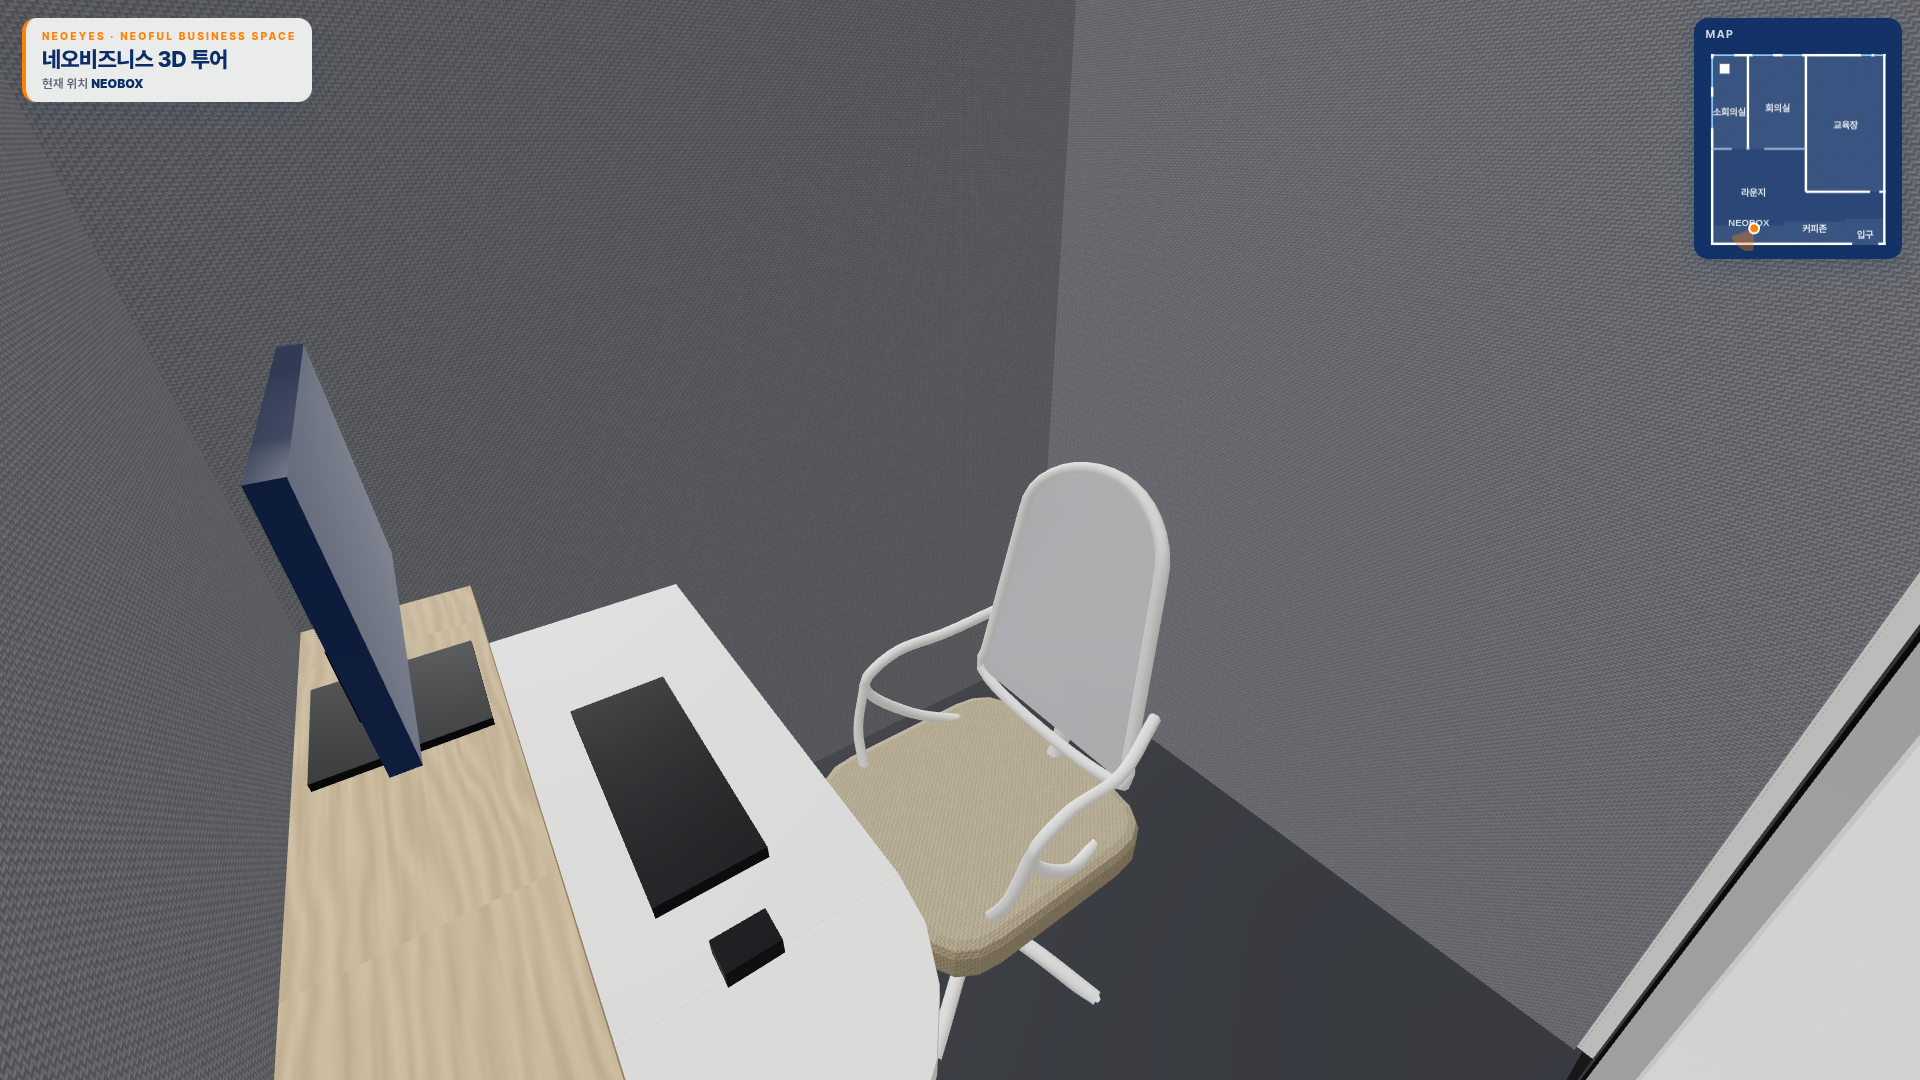
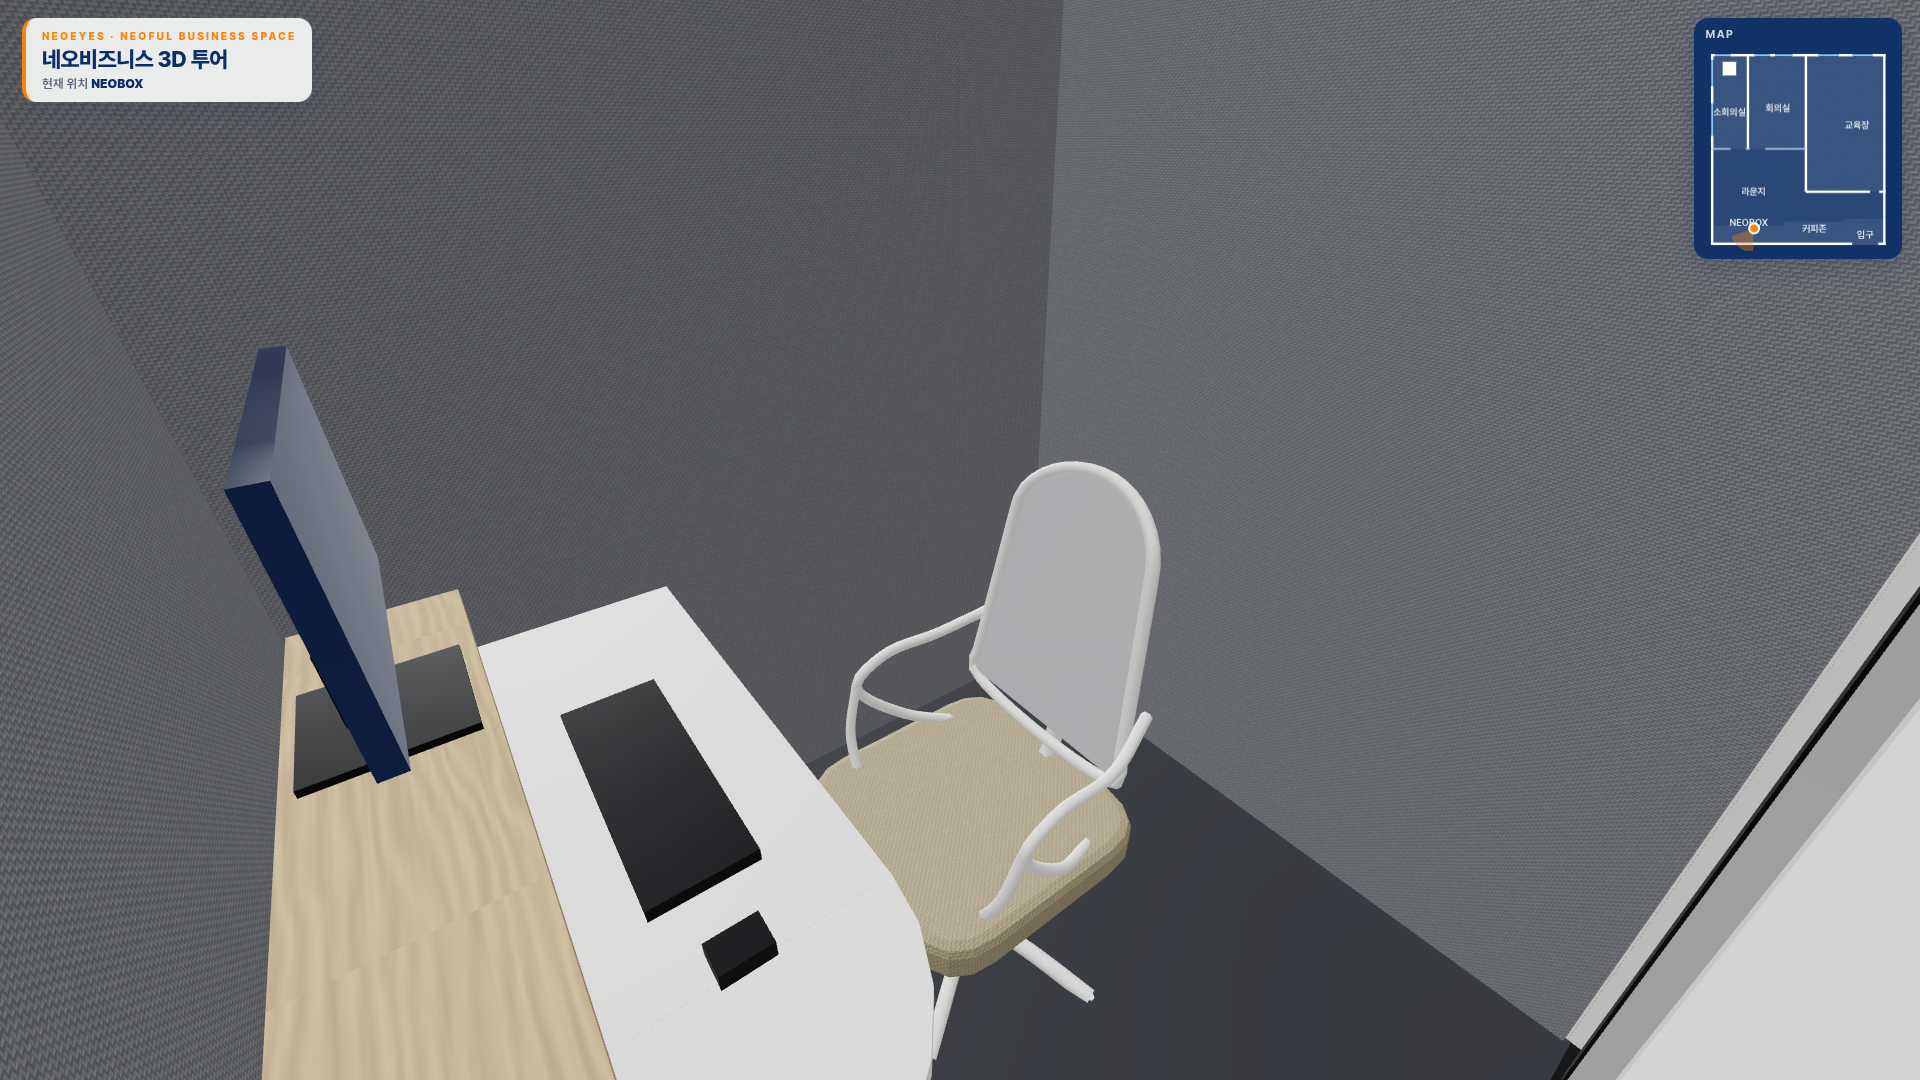
실측 스케치 반영: 단상, 교육장 책상 5줄, 회의실/소회의실 책상·창문·문 위치

diff --git a/layout.js b/layout.js
@@ -37,13 +37,13 @@ window.LAYOUT = {
       card:{ photos:['IMG_0415','IMG_0418','IMG_0419','IMG_0416'],
              desc:'창가 쪽 코너에 있는 작은 회의실이에요. 블랙 미팅 테이블과 화이트보드가 있고, 기둥 뒤 창가에는 L자 바 테이블과 바 스툴, 회색 수납 벤치와 주황 큐브 스툴이 있어요.' } },
     { id:'meeting', name:'회의실', en:'Meeting Room', rect:[3.81, 0, 9.79, 9.74], floor:'floor',
-      label:[6.9, 5.6], jump:{ x:6.9, z:8.8, look:[6.9, 0.3] },
+      label:[6.9, 5.6], jump:{ x:6.7, z:8.8, look:[6.7, 0.3] },
       card:{ photos:['IMG_0393','IMG_0391','IMG_0390'],
              desc:'긴 화이트 테이블과 블랙 체어, 프로젝터 스크린과 화이트보드를 갖춘 회의실이에요. 라운지 쪽은 반투명 유리벽이에요.' } },
     { id:'classroom', name:'교육장', en:'Education Center', rect:[9.79, 0, 18, 14.14], floor:'floor',
-      label:[13.9, 7.3], jump:{ x:13.91, z:13.3, look:[13.91, 0.3] },
+      label:[15.07, 7.3], jump:{ x:15.07, z:13.3, look:[13.91, 0.5] },
       card:{ photos:['IMG_0380','IMG_0382','IMG_0384','IMG_0383'],
-             desc:'라운지 쪽 출입구에는 백라이트 패널과 TV, 안내 배너, EDUCATION CENTER 유리문이 있어요. 내부는 화이트 강의용 책상이 두 줄로 길게 놓인 대형 교육장이에요.' } },
+             desc:'라운지 쪽 출입구에는 백라이트 패널과 TV, 안내 배너, EDUCATION CENTER 유리문이 있어요. 내부는 앞쪽 창가에 단상이 있고, 화이트 강의용 책상이 5줄로 놓인 대형 교육장이에요.' } },
     { id:'focus', name:'NEOBOX', en:'Focus Booth · NEOBOX', small:true, rect:[0.24, 17.6, 7.52, 19.6], floor:'floor',
       label:[3.9, 17.3], labelY:2.35, jump:{ x:5.1, z:16.0, look:[3.4, 19.3] },
       card:{ photos:['IMG_0398','IMG_0397','IMG_0401','IMG_0403'],
@@ -78,24 +78,24 @@ window.LAYOUT = {
                   swing = 열렸을 때 각도(도). NEOBOX 부스 문도 booth 가구에 open:true / swing 을 넣을 수 있어요.          */
   walls: [
     // 바깥벽 — 북쪽(위)
-    // (2026-11-18 스케치 반영: 초록색 = 창문)
-    { from:[0, 0],     to:[0.3, 0],   type:'solid',  outer:true },
-    { from:[0.3, 0],   to:[2.4, 0],   type:'window', outer:true },   // 소회의실 창 (왼쪽 한 구간)
-    { from:[2.4, 0],   to:[4.3, 0],   type:'solid',  outer:true },
-    { from:[4.3, 0],   to:[6.4, 0],   type:'window', outer:true },   // 회의실 창 ①
-    { from:[6.4, 0],   to:[7.4, 0],   type:'solid',  outer:true },
-    { from:[7.4, 0],   to:[9.4, 0],   type:'window', outer:true },   // 회의실 창 ②
-    { from:[9.4, 0],   to:[15.5, 0],  type:'solid',  outer:true },
-    { from:[15.5, 0],  to:[16.55, 0], type:'window', outer:true },   // 교육장 창 ① (오른쪽 절반, 스크린과 겹치지 않게)
-    { from:[16.55, 0], to:[16.85, 0], type:'solid',  outer:true },
-    { from:[16.85, 0], to:[17.8, 0],  type:'window', outer:true },   // 교육장 창 ②
-    { from:[17.8, 0],  to:[18, 0],    type:'solid',  outer:true },
+    // (2026-11-18 사용자 실측 스케치 반영: 초록색 = 창문)
+    { from:[0, 0],     to:[0.4, 0],   type:'solid',  outer:true },
+    { from:[0.4, 0],   to:[2.0, 0],   type:'window', outer:true },   // 소회의실 창
+    { from:[2.0, 0],   to:[4.5, 0],   type:'solid',  outer:true },
+    { from:[4.5, 0],   to:[6.1, 0],   type:'window', outer:true },   // 회의실 창 ①
+    { from:[6.1, 0],   to:[6.6, 0],   type:'solid',  outer:true },
+    { from:[6.6, 0],   to:[8.4, 0],   type:'window', outer:true },   // 회의실 창 ②
+    { from:[8.4, 0],   to:[11.1, 0],  type:'solid',  outer:true },
+    { from:[11.1, 0],  to:[13.2, 0],  type:'window', outer:true },   // 교육장 창 ①
+    { from:[13.2, 0],  to:[14.6, 0],  type:'solid',  outer:true },
+    { from:[14.6, 0],  to:[16.7, 0],  type:'window', outer:true },   // 교육장 창 ②
+    { from:[16.7, 0],  to:[18, 0],    type:'solid',  outer:true },
     // 바깥벽 — 서쪽(왼쪽)
-    { from:[0, 0],     to:[0, 0.48],  type:'solid',  outer:true },
-    { from:[0, 0.48],  to:[0, 3.4],   type:'window', outer:true },   // 소회의실 창 ① (위)
-    { from:[0, 3.4],   to:[0, 4.4],   type:'solid',  outer:true },
-    { from:[0, 4.4],   to:[0, 7.6],   type:'window', outer:true },   // 소회의실 창 ② (가운데)
-    { from:[0, 7.6],   to:[0, 9.21],  type:'solid',  outer:true },
+    { from:[0, 0],     to:[0, 0.6],   type:'solid',  outer:true },
+    { from:[0, 0.6],   to:[0, 3.3],   type:'window', outer:true },   // 소회의실 창 ① (위)
+    { from:[0, 3.3],   to:[0, 5.1],   type:'solid',  outer:true },
+    { from:[0, 5.1],   to:[0, 8.4],   type:'window', outer:true },   // 소회의실 창 ② (가운데)
+    { from:[0, 8.4],   to:[0, 9.21],  type:'solid',  outer:true },
     { from:[0, 9.21],  to:[0, 19.6],  type:'solid',  outer:true, molding:'east', moldingFrom:9.9, moldingTo:17.3 },  // 라운지 몰딩 벽 (molding: 몰딩을 붙일 면, From~To 구간)
     // 바깥벽 — 남쪽(아래), 입구 유리 양문
     { from:[0, 19.6],  to:[18, 19.6], type:'solid',  outer:true,
@@ -107,16 +107,16 @@ window.LAYOUT = {
     { from:[3.81, 0],  to:[3.81, 9.74], type:'solid' },                       // 소회의실 | 회의실
     { from:[9.79, 0],  to:[9.79, 14.14], type:'solid', t:0.30, molding:'west', moldingFrom:9.86, moldingTo:14.14 },  // 회의실·라운지 | 교육장
     { from:[0, 9.74],  to:[3.81, 9.74], type:'glass',
-      openings:[ { at:2.12, width:1.55, door:'glass', hinge:'end', swing:-63 } ] },    // 소회의실 앞 유리벽 + 문(동쪽 끝)
+      openings:[ { at:2.0, width:1.6, door:'glass', hinge:'end', swing:-63 } ] },    // 소회의실 앞 유리벽 + 문(동쪽 끝)
     { from:[3.81, 9.74], to:[9.79, 9.74], type:'glass',
-      openings:[ { at:3.95, width:1.55, door:'glass', hinge:'start', swing:63 } ] },   // 회의실 앞 유리벽 + 문(서쪽 끝, 소회의실 문 바로 옆)
+      openings:[ { at:4.0, width:1.6, door:'glass', hinge:'start', swing:63 } ] },   // 회의실 앞 유리벽 + 문(서쪽 끝, 소회의실 문 바로 옆)
     { from:[9.79, 14.14], to:[18, 14.14], type:'solid', t:0.30,
       openings:[ { at:16.41, width:0.95, door:'glass', frame:'white', hinge:'start', swing:66 } ] }  // 교육장 출입문
   ],
 
   /* 벽 블록(소회의실 안 흰 정사각형) 같은 기둥: rect = [x1,z1,x2,z2], slats = 우드 슬랫을 붙일 면 */
   columns: [
-    { rect:[0.90, 1.01, 1.91, 2.01], slats:['west','north'] }
+    { rect:[1.2, 0.8, 2.6, 2.2], slats:['west','north'] }   // 소회의실 흰 벽 블록 (실측 스케치)
   ],
 
   /* ---------- 4. 천장 조명 ----------
@@ -143,36 +143,39 @@ window.LAYOUT = {
      종류 목록은 수정방법.md 참고                                                     */
   furniture: [
     /* --- 소회의실 --- */
-    { type:'tableSet', x:1.35, z:3.25, w:0.9, d:2.5, top:'darkTop', chairsLeft:3, chairsRight:3, chairInset:0.4, legInset:0.1 },   // 블랙 미팅 테이블(스케치: 서쪽 위쪽, 벽 블록 바로 아래) + 의자 3+3
+    { type:'tableSet', x:1.9, z:4.0, w:1.4, d:3.2, top:'darkTop', chairsLeft:4, chairsRight:4, chairInset:0.45, legInset:0.1 },   // 블랙 미팅 테이블 x1.2–2.6, z2.4–5.6 (실측 스케치) + 의자 4+4
     { type:'whiteboard', x:3.71, z:7.09, w:2.0, rot:90 },
     { type:'barCounter', x:0.33, z:1.06, w:0.42, d:1.88 },          // 창가 L자 바 테이블 — 서쪽 창 쪽 (미팅 테이블과 겹치지 않게 벽 블록 옆까지만)
-    { type:'barCounter', x:1.80, z:0.33, w:2.51, d:0.42 },          // 창가 L자 바 테이블 — 북쪽 창 쪽
+    { type:'barCounter', x:1.97, z:0.33, w:2.86, d:0.42 },          // 창가 L자 바 테이블 — 북쪽 창 쪽
     { type:'stool', x:0.72, z:0.8, color:'fabricGray',  h:0.68 },
     { type:'stool', x:0.72, z:1.55, color:'fabricOrange', h:0.68 },
-    { type:'stool', x:2.25, z:0.86, color:'fabricGray',  h:0.68 },
-    { type:'stool', x:2.80, z:0.86, color:'fabricGray',  h:0.68 },
-    { type:'bench', x:3.52, z:1.24, w:0.4, d:1.0, h:0.42, color:'fabricGray' },
-    { type:'cube',  x:3.51, z:2.04, size:0.42, color:'fabricOrange' },
-    { type:'plant', x:3.45, z:2.8, scale:1.0 },
+    { type:'stool', x:2.85, z:0.86, color:'fabricGray',  h:0.68 },
+    { type:'stool', x:3.27, z:0.86, color:'fabricGray',  h:0.68 },
+    { type:'bench', x:3.52, z:1.95, w:0.4, d:1.0, h:0.42, color:'fabricGray' },
+    { type:'cube',  x:3.51, z:2.75, size:0.42, color:'fabricOrange' },
+    { type:'plant', x:0.45, z:6.3, scale:1.0 },
     { type:'cabinet', x:0.32, z:8.94, w:0.35, d:1.2, h:0.6, color:'black' },
     { type:'block', x:0.32, z:1.4, w:0.08, d:0.06, h:0.14, y:1.02, color:'black' },   // 바 테이블 위 폰 거치대
 
     /* --- 회의실 --- */
-    { type:'tableSet', x:6.9, z:2.3, w:1.25, d:2.6, top:'white', chairsLeft:3, chairsRight:3 },   // 회의 테이블 ① (스케치: 가운데 위)
-    { type:'tableSet', x:6.9, z:5.3, w:1.25, d:2.6, top:'white', chairsLeft:3, chairsRight:3 },   // 회의 테이블 ② (가운데 아래)
-    { type:'screen', x:6.9, z:0.18, w:2.2, rot:180 },
+    { type:'tableSet', x:6.7, z:2.5, w:1.4, d:3.0, top:'white', chairsLeft:3, chairsRight:3 },   // 회의 테이블 ① x6.0–7.4, z1.0–4.0
+    { type:'tableSet', x:6.7, z:5.8, w:1.4, d:3.0, top:'white', chairsLeft:3, chairsRight:3 },   // 회의 테이블 ② x6.0–7.4, z4.3–7.3
+    { type:'screen', x:6.7, z:0.18, w:2.2, rot:180 },
     { type:'whiteboard', x:3.91, z:4.79, w:2.4, rot:-90 },
     { type:'cabinet', x:8.4, z:0.47, w:1.6, d:0.4, h:0.6, color:'white' },
 
     /* --- 교육장 --- */
+    { type:'stage', x:13.915, z:0.95, w:7.93, d:1.5, h:0.2, top:'oak', stepX:1.0 },   // 단상 x9.95–17.88, z0.2–1.7, 높이 0.2 (실측 스케치 빨간색)
     { type:'screen', x:13.91, z:0.18, w:3.0, rot:180 },
-    { type:'desk', x:12.31, z:1.72, w:1.4, d:0.6 },
-    { type:'chair', x:12.31, z:1.22, rot:180 },
-    { type:'tvStand', x:10.84, z:1.42, rot:29 },
+    { type:'desk', x:12.31, z:1.0, w:1.4, d:0.6, elev:0.2 },          // 강연대(단상 위, elev = 단상 높이)
+    { type:'chair', x:12.31, z:0.5, rot:180, elev:0.2 },
+    { type:'tvStand', x:10.84, z:1.0, rot:29, elev:0.2 },
     { type:'whiteboard', x:9.97, z:7.07, w:8.5, rot:-90 },
     { type:'whiteboard', x:17.85, z:7.07, w:8.5, rot:90 },
-    { type:'array', xs:[10.95, 12.47, 15.35, 16.87], zs:[3.12, 4.57, 6.02, 7.47, 8.92, 10.37, 11.82],
-      item:{ type:'deskPair', w:1.5, d:0.5 } },                    // 강의 책상(의자 2개 포함) 7줄 × 4개
+    // 수강 책상 5줄 (실측 스케치): 왼쪽 2개 붙은 책상 | 통로 x14.3–15.85 | 동쪽 벽 쪽 1개. 의자는 책상 뒤에서 단상(북쪽)을 바라봄
+    { type:'array', xs:[11.025], zs:[4.35, 6.35, 8.1, 9.9, 11.8], item:{ type:'deskPair', w:2.15, d:0.75, chairs:3 } },   // x9.95–12.1
+    { type:'array', xs:[13.25],  zs:[4.35, 6.35, 8.1, 9.9, 11.8], item:{ type:'deskPair', w:2.1,  d:0.75, chairs:3 } },   // x12.2–14.3
+    { type:'array', xs:[16.865], zs:[4.35, 6.35, 8.1, 9.9, 11.8], item:{ type:'deskPair', w:2.03, d:0.75, chairs:3 } },   // x15.85–17.88(동쪽 벽)
     { type:'tvWall', x:14.82, z:14.34, w:2.5, rot:180 },                     // 교육장 앞 백라이트 TV 패널(라운지 쪽)
     { type:'signStand', x:15.17, z:14.84 },
     { type:'signStand', x:15.57, z:14.84 },

diff --git a/app.js b/app.js
@@ -5,7 +5,7 @@ import { OrbitControls } from 'three/addons/OrbitControls.js';
 import { CSS2DRenderer, CSS2DObject } from 'three/addons/CSS2DRenderer.js';
 import { RoomEnvironment } from 'three/addons/RoomEnvironment.js';
 import { mergeGeometries } from 'three/addons/BufferGeometryUtils.js';
-import { makeTextures, textTexture } from './textures.js?v=11181930';
+import { makeTextures, textTexture } from './textures.js?v=11181960';
 
 const L = window.LAYOUT, B = L.building, H = B.ceiling, EYE = B.eye || 1.6, W = B.width, D = B.depth;
 const TW = Object.assign({ exterior: 0.24, interior: 0.14, thick: 0.3 }, B.wall || {});
@@ -301,10 +301,24 @@ function desk(g, o) {
   const w = o.w || 1.4, d = o.d || 0.6, h = o.h || 0.72;
   box(w, 0.035, d, matOf(o.top || 'white'), 0, h - 0.035, 0, g); legs4(g, w, d, h - 0.035, matOf(o.legs || 'metal'));
 }
-function deskPair(g, o) {
-  const w = o.w || 1.5, d = o.d || 0.5; desk(g, { w, d });
-  for (const dx of [-w * 0.24, w * 0.24]) chair(grp(dx, d / 2 + 0.3, 0, g), {});
+function deskPair(g, o) {   // 책상 + 뒤쪽 의자 n개(기본 2), 의자는 책상(북쪽, -z)을 바라봄
+  const w = o.w || 1.5, d = o.d || 0.5, n = o.chairs || 2; desk(g, { w, d });
+  for (let i = 0; i < n; i++) chair(grp(n === 2 ? (i ? 1 : -1) * w * 0.24 : -w / 2 + w / (2 * n) + i * w / n, d / 2 + 0.3, 0, g), {});
 }
+/* 단상(무대): 걸어 올라갈 수 있는 낮은 플랫폼. 위에 놓는 가구는 elev(바닥에서 띄우는 높이)를 단상 높이로 */
+const PLATFORMS = [];
+function stage(g, o) {
+  const w = o.w || 4, d = o.d || 1.5, h = o.h || 0.2;
+  box(w, h - 0.02, d, M.black, 0, 0, 0, g);                                 // 몸체(검정 측면)
+  box(w, 0.02, d, matOf(o.top || 'oak'), 0, h - 0.02, 0, g);               // 상판
+  box(w, 0.012, 0.05, M.metal, 0, h - 0.012, d / 2 - 0.025, g);           // 앞 모서리 논슬립 금속 엣지
+  if (o.step !== false) { box(Math.min(1.2, w * 0.3), h / 2, 0.3, matOf(o.top || 'oak'), o.stepX || 0, 0, d / 2 + 0.15, g); }   // 앞쪽 계단 한 칸
+  g.userData.noCollide = true; g.userData.noBlob = true;
+  const r = o.rot || 0; if (r % 180 !== 0) console.warn('stage 는 rot 0/180 만 지원');
+  PLATFORMS.push({ x0: o.x - w / 2, x1: o.x + w / 2, z0: o.z - d / 2, z1: o.z + d / 2, h });
+  if (o.step !== false) { const sx = o.x + (o.stepX || 0), sw = Math.min(1.2, w * 0.3); PLATFORMS.push({ x0: sx - sw / 2, x1: sx + sw / 2, z0: o.z + d / 2, z1: o.z + d / 2 + 0.3, h: h / 2 }); }
+}
+function floorHeight(x, z) { let h = 0; for (const p of PLATFORMS) if (x >= p.x0 - 0.05 && x <= p.x1 + 0.05 && z >= p.z0 - 0.05 && z <= p.z1 + 0.05) h = Math.max(h, p.h); return h; }
 function tableSet(g, o) {   // 테이블(세로 d 방향으로 길게) + 양옆 의자
   const w = o.w, d = o.d, h = 0.72, mods = o.modules || 1, legs = matOf(o.legs || (o.top === 'darkTop' ? 'metal' : 'black'));
   for (let i = 0; i < mods; i++) {
@@ -394,8 +408,8 @@ function slats(o) {   // from → to 선을 따라 세로 우드 루버
   if (o.thick) box(horiz ? Math.abs(bx - ax) + 0.1 : 0.08, 0.04, horiz ? 0.08 : Math.abs(bz - az) + 0.1, M.oak, (ax + bx) / 2, h, (az + bz) / 2, g);
   g.userData.noBlob = true; return g;
 }
-const BUILDERS = { block, chair, stool, armchair, cube, roundTable, plant, desk, deskPair, tableSet, whiteboard, screen, tvStand, tvWall, signStand, bench, cabinet, barCounter, purifier, mat, booth, pantry };
-const NOBLOB = new Set(['whiteboard', 'screen', 'tvWall', 'mat', 'slats', 'booth']);
+const BUILDERS = { stage, block, chair, stool, armchair, cube, roundTable, plant, desk, deskPair, tableSet, whiteboard, screen, tvStand, tvWall, signStand, bench, cabinet, barCounter, purifier, mat, booth, pantry };
+const NOBLOB = new Set(['stage', 'whiteboard', 'screen', 'tvWall', 'mat', 'slats', 'booth']);
 const blobs = [];
 function place(o) {
   if (o.type === 'array') {
@@ -405,7 +419,7 @@ function place(o) {
   }
   if (o.type === 'slats') { slats(o); return; }
   const fn = BUILDERS[o.type]; if (!fn) { console.warn('알 수 없는 가구 type:', o.type, o); return; }
-  const g = grp(o.x, o.z, o.rot || 0); fn(g, o);
+  const g = grp(o.x, o.z, o.rot || 0); if (o.elev) g.position.y = o.elev; fn(g, o);
   if (!NOBLOB.has(o.type) && !g.userData.noBlob) blobs.push(g);
 }
 for (const f of L.furniture) place(f);
@@ -800,7 +814,8 @@ function step(dt) {
     if (stuck || !blocked(player.x + dx, player.z)) player.x += dx;
     if (stuck || !blocked(player.x, player.z + dz)) player.z += dz;
   }
-  camera.position.set(player.x, EYE, player.z); camera.rotation.set(player.pitch, player.yaw, 0, 'YXZ');
+  player.y = (player.y ?? 0) + (floorHeight(player.x, player.z) - (player.y ?? 0)) * Math.min(1, dt * 10);   // 단상 위로 올라가면 눈높이도 올라감
+  camera.position.set(player.x, EYE + player.y, player.z); camera.rotation.set(player.pitch, player.yaw, 0, 'YXZ');
 }
 function tick() {
   requestAnimationFrame(tick);

diff --git a/index.html b/index.html
@@ -123,8 +123,8 @@ body.shot #doorPrompt{font-size:22px;padding:12px 22px 12px 14px}body.shot #door
   </div>
 </aside>
 <!-- 공간 설정: 치수·가구 배치는 layout.js 에서 수정 -->
-<script src="layout.js?v=11181930"></script>
+<script src="layout.js?v=11181960"></script>
 <script type="importmap">{"imports":{"three":"./lib/three.module.min.js","three/addons/":"./lib/addons/"}}</script>
-<script type="module" src="app.js?v=11181930"></script>
+<script type="module" src="app.js?v=11181960"></script>
 </body>
 </html>

diff --git a/수정방법.md b/수정방법.md
@@ -179,12 +179,16 @@ openings:[
 | `signStand` | 배너 스탠드 | |
 | `booth` | NEOBOX 1인 부스 | w, d, label, rot(문 방향), open, swing |
 | `pantry` | 탕비 카운터 세트 | w, rot(앞면 방향) |
+| `stage` | 단상(걸어 올라갈 수 있음, 앞 계단 1칸) | w, d, h, top, stepX(계단 위치), step:false |
 | `plant` | 화분 | scale |
 | `purifier` | 공기청정기 | |
 | `mat` | 바닥 매트(통과 가능) | w, d, color |
 | `slats` | 우드 슬랫 루버 | from, to, h, count, thick |
 
 크기는 `w`=가로(x), `d`=세로(z), `h`=높이 (회전 전 기준).
+
+단상 위에 놓는 가구는 `elev:0.2` 처럼 단상 높이만큼 띄워 주세요. 예: `{ type:'desk', x:12.31, z:1.0, w:1.4, d:0.6, elev:0.2 }`
+`deskPair` 는 `chairs:3` 으로 책상 뒤 의자 수를 바꿀 수 있어요.
 
 ### 재질 이름(color)
 
